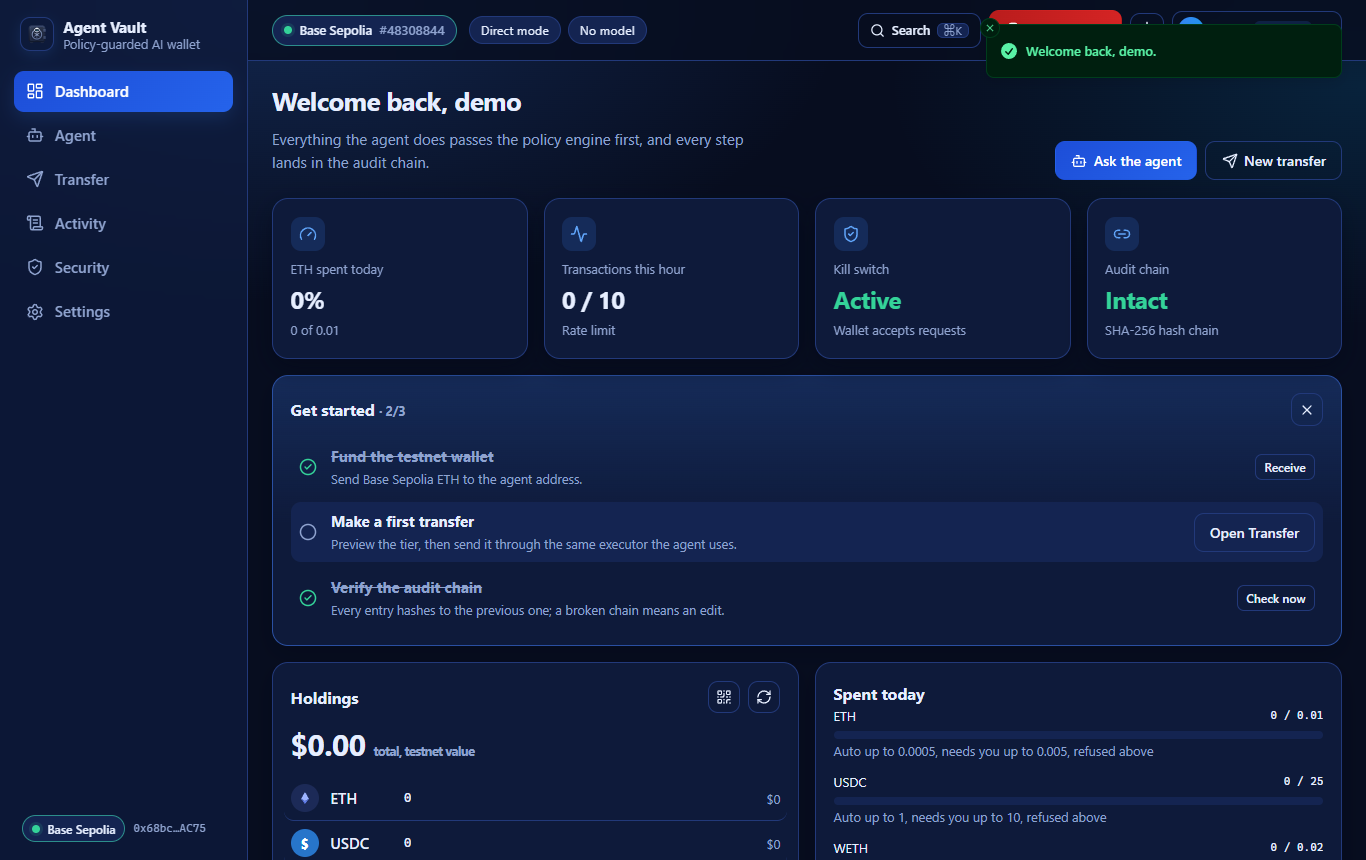
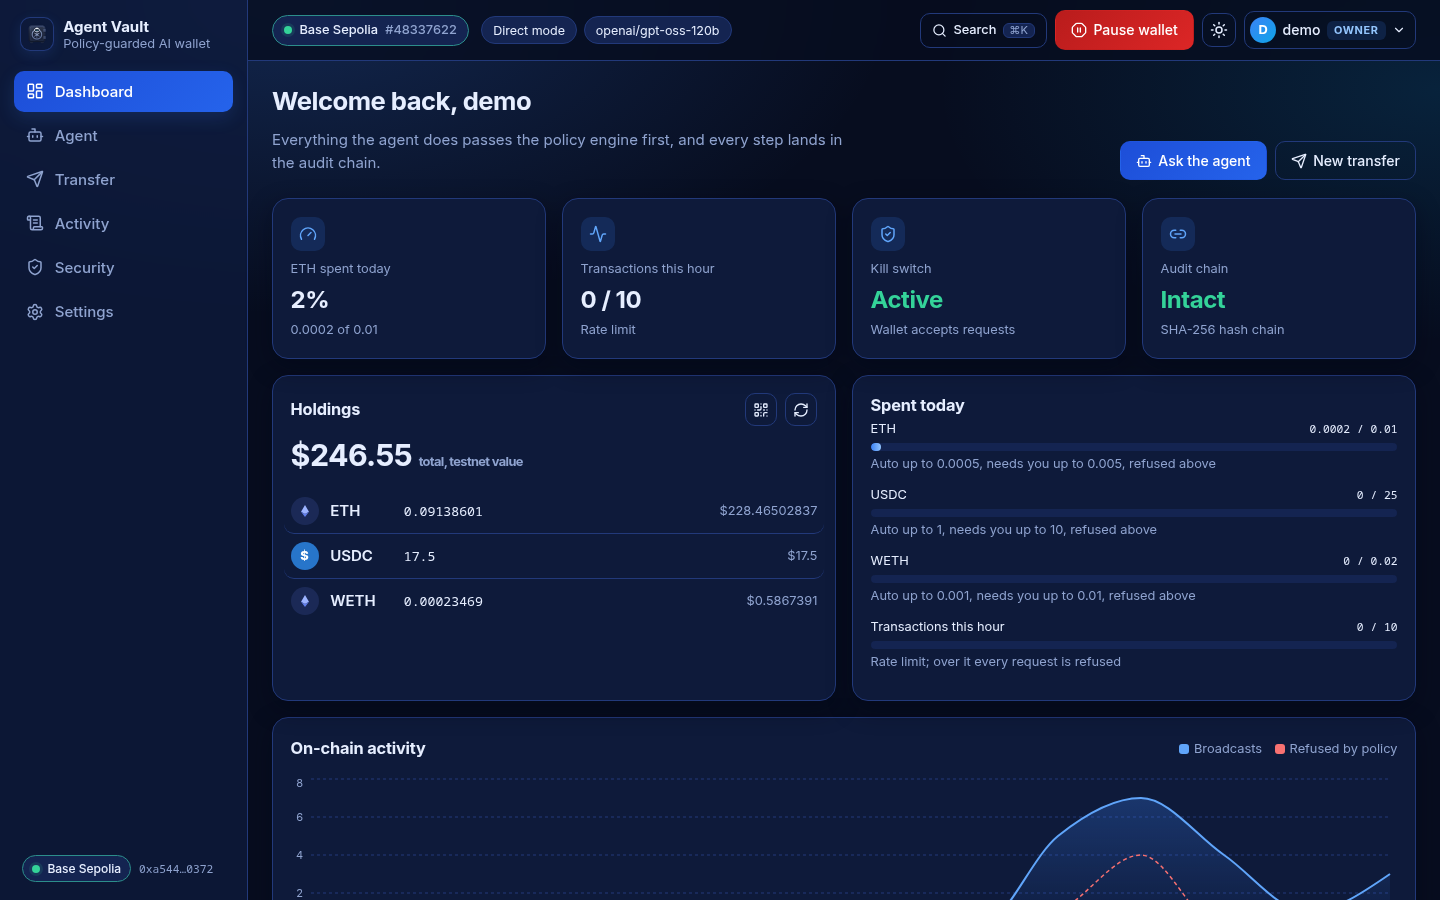
docs(readme): refresh screenshots and add policy-flow GIFs

diff --git a/README.md b/README.md
@@ -46,9 +46,26 @@ by re-running the engine, or why there is none ("budget resets at 00:00 UTC").
 
 ## Screenshots
 
-| Dashboard (dark) | Transfer: T3 refusal with the engine's compliant alternative (light) |
+| Dashboard (dark theme, real Base Sepolia balances) | Transfer: T3 refusal with the engine's compliant alternative (light) |
 |---|---|
 | ![Dashboard in the dark theme](docs/screenshots/dashboard-dark.png) | ![Transfer page showing a T3 refusal and a compliant alternative](docs/screenshots/transfer-alternative-light.png) |
+
+| Security: tiers, live limits, roles and the policy fingerprint (dark) | Activity filtered to on-chain entries (light) |
+|---|---|
+| ![Security page with tiers, limits, roles and the policy fingerprint](docs/screenshots/security-dark.png) | ![Activity page filtered to on-chain entries](docs/screenshots/activity-light.png) |
+
+### The policy firewall in action
+
+A T1 inside the limits executes with no prompt; the same form then raises the
+amount until the engine refuses (T3) and offers the largest amount it would
+accept.
+
+![Checking a transfer's tier, then the T3 refusal and compliant alternative](docs/screenshots/tier-check.gif)
+
+A T2 request for an allowlisted recipient above the auto limit becomes a human
+approval card with a countdown. Here it is rejected, so nothing is signed.
+
+![A T2 request waiting for a human, then rejected, so nothing is signed](docs/screenshots/approval-flow.gif)
 
 ## 60-second quickstart (no keys)
 

diff --git a/docs/FINAL_STATUS.md b/docs/FINAL_STATUS.md
@@ -14,7 +14,7 @@ was touched.
 | Unit + integration tests | local, `npm test` | **314 passed / 314**, 38 files (baseline before this branch: 232 / 24 files) |
 | Typecheck (web UI) | local, `npm --prefix web run typecheck` | clean |
 | UI production build | local, `npm --prefix web run build` | built, no chunk-size warning (pages are lazy-loaded) |
-| End-to-end + WCAG 2.2 AA | local, `npm run e2e` with `PW_CHANNEL=msedge` | **11 passed / 11**: 6 smoke flows (incl. phone-width overflow guards), axe-core over the sign-in page and all 6 app pages in light **and** dark, keyboard contract, live region |
+| End-to-end + WCAG 2.2 AA | local, `npm run e2e` (bundled Chromium) | **12 passed / 12**: 7 smoke flows (incl. phone-width overflow guards and the agent hand-off layout), axe-core over the sign-in page and all 6 app pages in light **and** dark, keyboard contract, live region |
 | GitHub Actions CI | runs `39241874743` (push) and `39241879886` (PR #4) on commit `378037a` | **all 4 jobs green**: typecheck/tests/UI build, e2e + axe (10/10), Foundry (69/69), Docker build |
 | Foundry contract tests | CI `contracts` job and local `forge test` | **69 passed / 69** (AgentVault v1: 12, AgentVaultV2: 37, SessionKeyAccount: 20); Foundry was installed locally before the final run and the full suite passes there too |
 | Lockfiles | local, `npm ci` (root and `web/`) | install cleanly |
